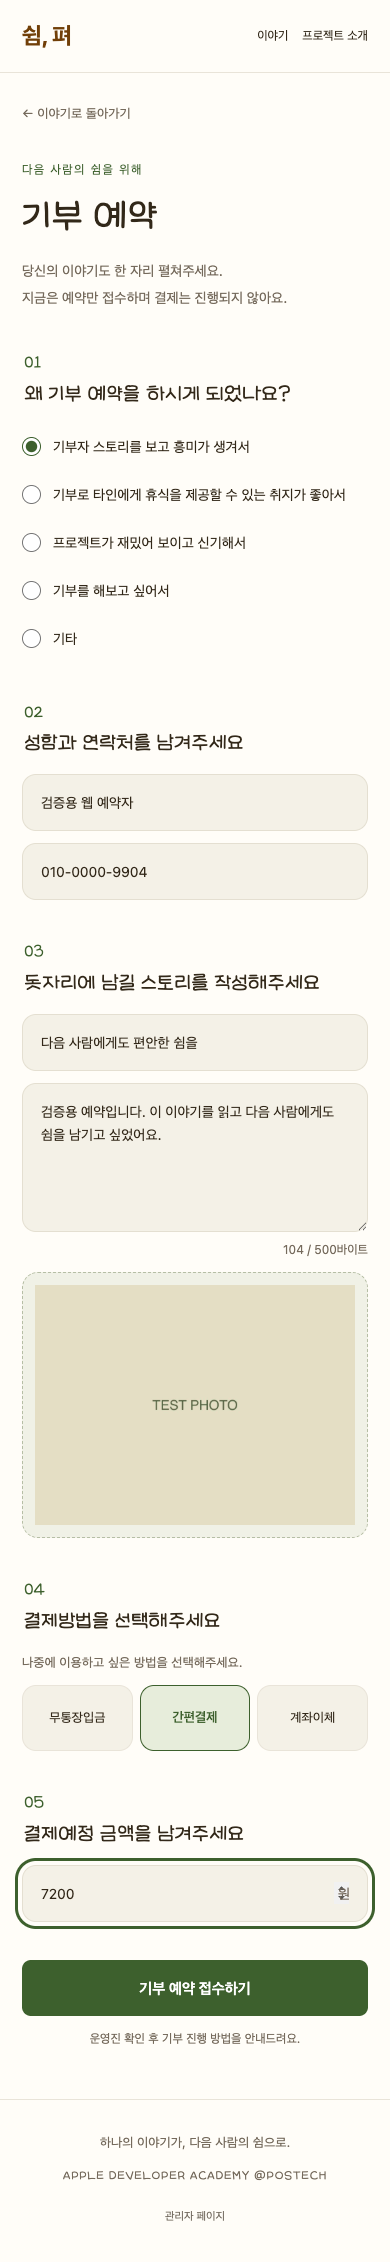
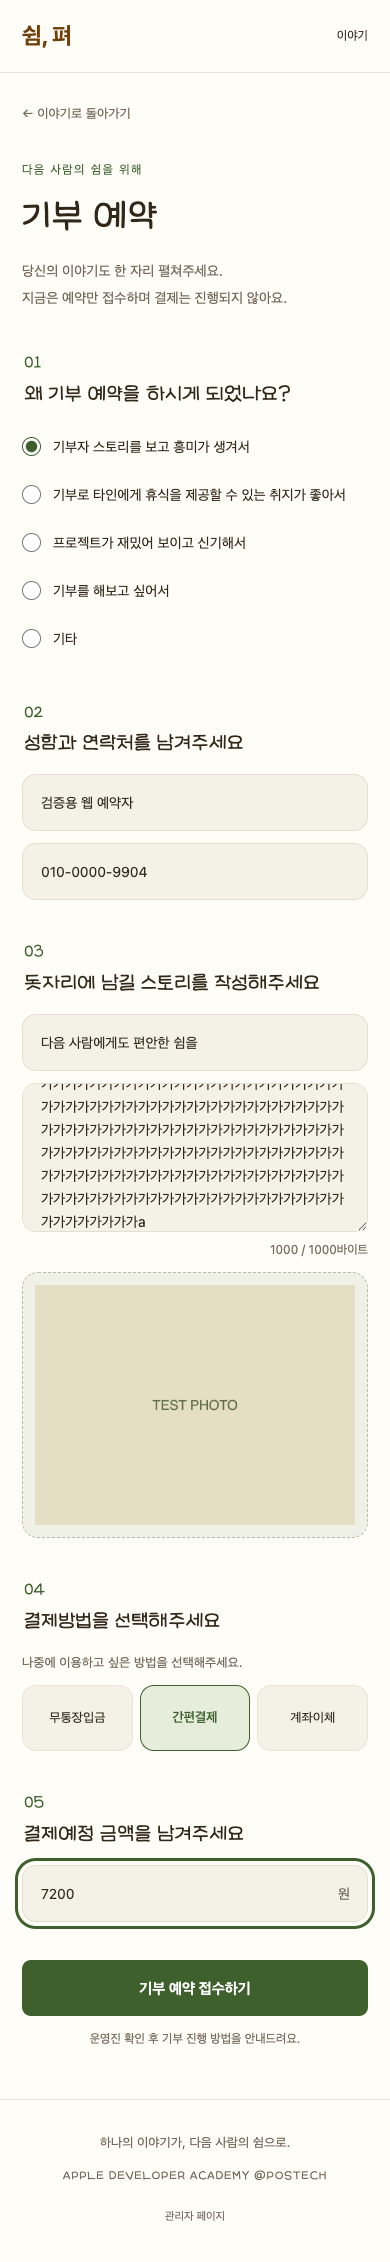
[feat] 기부자 스토리 상한을 1000바이트로 확대

Changed region(s): [[0.0923, 0.4642, 0.8923, 0.557]]

diff --git a/apps/web/src/components/reservation-form.tsx b/apps/web/src/components/reservation-form.tsx
@@ -2,7 +2,7 @@
 /* eslint-disable @next/next/no-img-element */
 import Link from "next/link";
 import { useEffect, useRef, useState } from "react";
-import { byteLength } from "@/lib/story";
+import { byteLength, STORY_MAX_BYTES } from "@/lib/story";
 import { reasons, paymentMethods, reservationInput } from "@/lib/reservation";
 
 export function ReservationForm({ sourceStoryId }: { sourceStoryId?: string }) {
@@ -39,10 +39,10 @@ export function ReservationForm({ sourceStoryId }: { sourceStoryId?: string }) {
     <form onSubmit={submit} onChange={() => { requestId.current = ""; }}><fieldset disabled={busy} className="reservation-fields">
       <fieldset className="reservation-question"><legend><span>01</span> 왜 기부 예약을 하시게 되었나요?</legend><div className="reason-options">{Object.entries(reasons).map(([value, label]) => <label key={value}><input type="radio" name="reason" value={value} checked={reason === value} onChange={() => setReason(value)} required />{label}</label>)}</div>{reason === "other" ? <label className="other-reason"><span className="sr-only">기타 이유</span><input name="reasonOther" maxLength={300} placeholder="예약하게 된 이유를 들려주세요" required /></label> : <input type="hidden" name="reasonOther" value="" />}</fieldset>
       <fieldset className="reservation-question"><legend><span>02</span> 성함과 연락처를 남겨주세요</legend><label><span className="sr-only">성함</span><input name="displayName" autoComplete="name" maxLength={40} placeholder="성함" required /></label><label><span className="sr-only">휴대폰번호</span><input name="phone" type="tel" autoComplete="tel" maxLength={20} placeholder="휴대폰번호" required /></label></fieldset>
-      <fieldset className="reservation-question"><legend><span>03</span> 돗자리에 남길 스토리를 작성해주세요</legend><label><span className="sr-only">제목</span><input name="title" maxLength={80} placeholder="제목" required /></label><label><span className="sr-only">스토리</span><textarea aria-label="스토리" name="story" value={text} onChange={(e) => setText(e.target.value)} placeholder="당신의 이야기를 들려주세요" rows={5} required aria-describedby="reservation-bytes" /><small id="reservation-bytes" className={`byte-counter ${byteLength(text) > 500 ? "error-message" : ""}`}>{byteLength(text)} / 500바이트</small></label><label className="photo-upload">{preview ? <img src={preview} alt="선택한 사진 미리보기" /> : <span className="photo-upload-copy"><strong>＋</strong>사진 추가<small>JPG, PNG, WebP · 한 장 · 최대 5MB</small></span>}<span className="sr-only">사진 추가</span><input aria-label="사진 추가" name="photo" type="file" accept="image/jpeg,image/png,image/webp" required onChange={(e) => { const file = e.target.files?.[0]; setPreview(file ? URL.createObjectURL(file) : ""); }} /></label></fieldset>
+      <fieldset className="reservation-question"><legend><span>03</span> 돗자리에 남길 스토리를 작성해주세요</legend><label><span className="sr-only">제목</span><input name="title" maxLength={80} placeholder="제목" required /></label><label><span className="sr-only">스토리</span><textarea aria-label="스토리" name="story" value={text} onChange={(e) => setText(e.target.value)} placeholder="당신의 이야기를 들려주세요" rows={5} required aria-describedby="reservation-bytes" /><small id="reservation-bytes" className={`byte-counter ${byteLength(text) > STORY_MAX_BYTES ? "error-message" : ""}`}>{byteLength(text)} / {STORY_MAX_BYTES}바이트</small></label><label className="photo-upload">{preview ? <img src={preview} alt="선택한 사진 미리보기" /> : <span className="photo-upload-copy"><strong>＋</strong>사진 추가<small>JPG, PNG, WebP · 한 장 · 최대 5MB</small></span>}<span className="sr-only">사진 추가</span><input aria-label="사진 추가" name="photo" type="file" accept="image/jpeg,image/png,image/webp" required onChange={(e) => { const file = e.target.files?.[0]; setPreview(file ? URL.createObjectURL(file) : ""); }} /></label></fieldset>
       <fieldset className="reservation-question"><legend><span>04</span> 결제방법을 선택해주세요</legend><p className="field-description">나중에 이용하고 싶은 방법을 선택해주세요.</p><div className="payment-options">{Object.entries(paymentMethods).map(([value, label]) => <label key={value}><input type="radio" name="paymentMethod" value={value} required /><span>{label}</span></label>)}</div></fieldset>
       <fieldset className="reservation-question"><legend><span>05</span> 결제예정 금액을 남겨주세요</legend><label className="amount-input"><span className="sr-only">결제예정 금액</span><input name="amount" type="number" inputMode="numeric" min="1" max="2147483647" step="1" placeholder="0" required /><span aria-hidden="true">원</span></label></fieldset>
-      {error && <p role="alert" className="error-message">{error}</p>}<button className="button primary reservation-submit" disabled={busy || byteLength(text) > 500}>{busy ? "예약을 접수하는 중…" : "기부 예약 접수하기"}</button><p className="reservation-footnote">운영진 확인 후 기부 진행 방법을 안내드려요.</p>
+      {error && <p role="alert" className="error-message">{error}</p>}<button className="button primary reservation-submit" disabled={busy || byteLength(text) > STORY_MAX_BYTES}>{busy ? "예약을 접수하는 중…" : "기부 예약 접수하기"}</button><p className="reservation-footnote">운영진 확인 후 기부 진행 방법을 안내드려요.</p>
     </fieldset></form>
   </section>;
 }

diff --git a/apps/web/src/components/admin-dashboard.tsx b/apps/web/src/components/admin-dashboard.tsx
@@ -3,7 +3,7 @@
 import Link from "next/link";
 import { useEffect, useState } from "react";
 import { useRouter } from "next/navigation";
-import { sizes, byteLength, type Story } from "@/lib/story";
+import { sizes, byteLength, STORY_MAX_BYTES, type Story } from "@/lib/story";
 import type { Reservation } from "@/lib/reservation";
 import { AdminReservations } from "./admin-reservations";
 
@@ -44,10 +44,10 @@ function StoryEditor({ story, reservation, onClose }: { story?: Story; reservati
     <label>공개 이름<input name="displayName" value={name} onChange={(e) => setName(e.target.value)} maxLength={40} required /></label>
     <label>제목<input name="title" defaultValue={story?.title || reservation?.title || ""} maxLength={80} /></label>
     <label>사진 한 장<input name="photo" type="file" accept="image/jpeg,image/png,image/webp" required={!story && !reservation} onChange={(e) => { const file = e.target.files?.[0]; setPreview(file ? URL.createObjectURL(file) : ""); }} /><small>JPG, PNG, WebP · 최대 5MB. {story && "새 사진을 선택하지 않으면 기존 사진을 유지합니다."}</small></label>
-    <label>이야기<textarea name="story" value={text} onChange={(e) => setText(e.target.value)} rows={4} required aria-describedby="story-length" /><small id="story-length" className={byteLength(text) > 500 ? "error-message" : ""}>{byteLength(text)} / 500바이트</small></label>
+    <label>이야기<textarea name="story" value={text} onChange={(e) => setText(e.target.value)} rows={4} required aria-describedby="story-length" /><small id="story-length" className={byteLength(text) > STORY_MAX_BYTES ? "error-message" : ""}>{byteLength(text)} / {STORY_MAX_BYTES}바이트</small></label>
     <div className="review-checks"><label><input type="checkbox" checked={verified} onChange={(e) => { setVerified(e.target.checked); if (!e.target.checked) setPublished(false); }} /> 입금 확인 완료</label><label><input type="checkbox" checked={published} disabled={!verified} onChange={(e) => setPublished(e.target.checked)} /> 내용 검토 완료 · 웹에 공개</label></div>
     <details className="preview-panel"><summary>공개 내용 미리보기</summary>{(preview || story || reservation) && <img src={preview || (reservation ? `/api/admin/reservations/${reservation.id}/photo` : `/api/stories/${story!.id}/photo?v=${story!.revision}`)} alt="공개할 사진 미리보기" />}<h3>{name || "공개 이름"}님의 이야기</h3><p>{text || "작성한 이야기가 여기에 표시됩니다."}</p></details>
-    {error && <p className="error-message" role="alert">{error}</p>}<button className="button primary" disabled={busy || byteLength(text) > 500}>{busy ? "처리 중…" : published ? "저장하고 공개" : "비공개로 저장"}</button>
+    {error && <p className="error-message" role="alert">{error}</p>}<button className="button primary" disabled={busy || byteLength(text) > STORY_MAX_BYTES}>{busy ? "처리 중…" : published ? "저장하고 공개" : "비공개로 저장"}</button>
     {story && <div className="delete-area">{confirmDelete ? <><p>사진과 공감을 포함해 영구 삭제합니다. 되돌릴 수 없습니다.</p><button type="button" className="danger-button" onClick={remove}>영구 삭제 확인</button><button type="button" className="text-button" onClick={() => setConfirmDelete(false)}>취소</button></> : <button type="button" className="danger-button" onClick={() => setConfirmDelete(true)}>이야기 삭제</button>}</div>}
   </fieldset></form></section>;
 }

diff --git a/apps/web/tests/reservation.integration.ts b/apps/web/tests/reservation.integration.ts
@@ -11,11 +11,13 @@ test("private reservations are idempotent, admin-reviewed and never expose conta
   const photo = await sharp({ create: { width: 400, height: 300, channels: 3, background: "#eee5cb" } }).jpeg().toBuffer();
   function form(amount = "7200") {
     const f = new FormData();
-    for (const [key,value] of Object.entries({ id, displayName: "검증용 예약자", phone: "010-0000-9923", reason: "other", reasonOther: "통합 검증", title: "검증용 예약 제목", story: "가".repeat(166) + "ab", paymentMethod: "easy", amount })) f.set(key,value);
+    for (const [key,value] of Object.entries({ id, displayName: "검증용 예약자", phone: "010-0000-9923", reason: "other", reasonOther: "통합 검증", title: "검증용 예약 제목", story: "가".repeat(333) + "a", paymentMethod: "easy", amount })) f.set(key,value);
     f.set("photo", new Blob([new Uint8Array(photo)], { type: "image/jpeg" }), "test.jpg"); return f;
   }
   const send = (path: string, method: string, body?: BodyInit, auth = false) => fetch(base+path, { method, headers: { origin: base, ...(auth ? { cookie } : {}) }, body });
   try {
+    const oversized = form(); oversized.set("story", "가".repeat(333) + "ab");
+    assert.equal((await send("/api/reservations", "POST", oversized)).status, 400);
     const requests = await Promise.all([send("/api/reservations", "POST", form()), send("/api/reservations", "POST", form())]);
     for (const r of requests) assert.equal(r.status,201);
     assert.equal((await pool.query("SELECT count(*)::int AS count FROM mat_reservations WHERE id=$1",[id])).rows[0].count,1);
@@ -28,7 +30,7 @@ test("private reservations are idempotent, admin-reviewed and never expose conta
     assert.equal(login.status,200);cookie=login.headers.get("set-cookie")!.split(";")[0];
     assert.equal((await send(`/api/admin/reservations/${id}/photo`,"GET",undefined,true)).status,200);
     const admin = await send("/admin","GET",undefined,true).then(r=>r.text());assert.ok(admin.includes("01000009923"));
-    const promote = () => {const f=new FormData();for(const[k,v]of Object.entries({reservationId:id,matNumber:"9903",matSize:"large",displayName:"검증용 예약자",title:"검증용 예약 제목",story:"가".repeat(166)+"ab",paymentVerified:"true",published:"true"}))f.set(k,v);return f;};
+    const promote = () => {const f=new FormData();for(const[k,v]of Object.entries({reservationId:id,matNumber:"9903",matSize:"large",displayName:"검증용 예약자",title:"검증용 예약 제목",story:"가".repeat(333)+"a",paymentVerified:"true",published:"true"}))f.set(k,v);return f;};
     const created = await send("/api/admin/stories","POST",promote(),true);assert.equal(created.status,201);storyId=(await created.json()).id;
     assert.equal((await send("/api/admin/stories","POST",promote(),true)).status,409);
     const publicPage = await fetch(base+`/stories/${storyId}`).then(r=>r.text());

diff --git a/apps/web/tests/browser/story.spec.ts b/apps/web/tests/browser/story.spec.ts
@@ -20,6 +20,11 @@ test("admin registration, publication, mobile reading and one-device reaction", 
     await page.getByLabel("제목", { exact: true }).fill("함께 쉬어 가는 자리에 남긴 마음");
     await page.getByLabel("사진 한 장").setInputFiles({ name: "test.jpg", mimeType: "image/jpeg", buffer: photo });
     await page.getByRole("textbox", { name: /^이야기/ }).fill("이 화면은 검증용 데이터입니다. 함께 쉬어 가는 자리에 작은 마음을 남깁니다.");
+    await page.getByRole("textbox", { name: /^이야기/ }).fill("🧺".repeat(250) + "a");
+    await expect(page.getByRole("button", { name: "비공개로 저장" })).toBeDisabled();
+    await page.getByRole("textbox", { name: /^이야기/ }).fill("🧺".repeat(250));
+    await expect(page.locator("#story-length")).toHaveText("1000 / 1000바이트");
+    await expect(page.getByRole("button", { name: "비공개로 저장" })).toBeEnabled();
     await expect(page.getByLabel("내용 검토 완료 · 웹에 공개")).toBeDisabled();
     await page.getByLabel("입금 확인 완료").check();
     await page.getByLabel("내용 검토 완료 · 웹에 공개").check();
@@ -71,9 +76,11 @@ test("admin registration, publication, mobile reading and one-device reaction", 
     await page.getByRole("textbox", { name: "성함", exact: true }).fill("검증용 웹 예약자");
     await page.getByRole("textbox", { name: "휴대폰번호", exact: true }).fill("010-0000-9904");
     await page.getByRole("textbox", { name: "제목", exact: true }).fill("다음 사람에게도 편안한 쉼을");
-    await page.getByRole("textbox", { name: "스토리", exact: true }).fill("가".repeat(167));
+    await page.getByRole("textbox", { name: "스토리", exact: true }).fill("가".repeat(333) + "ab");
     await expect(page.getByRole("button", { name: "기부 예약 접수하기" })).toBeDisabled();
-    await page.getByRole("textbox", { name: "스토리", exact: true }).fill("검증용 예약입니다. 이 이야기를 읽고 다음 사람에게도 쉼을 남기고 싶었어요.");
+    await page.getByRole("textbox", { name: "스토리", exact: true }).fill("가".repeat(333) + "a");
+    await expect(page.locator("#reservation-bytes")).toHaveText("1000 / 1000바이트");
+    await expect(page.getByRole("button", { name: "기부 예약 접수하기" })).toBeEnabled();
     await page.locator('input[name="photo"]').setInputFiles({ name: "test.jpg", mimeType: "image/jpeg", buffer: photo });
     await page.getByLabel("간편결제", { exact: true }).check();
     const amount = page.getByRole("spinbutton", { name: "결제예정 금액" });

diff --git a/apps/web/tests/api.integration.ts b/apps/web/tests/api.integration.ts
@@ -28,7 +28,7 @@ test("real API and PostgreSQL enforce publication, auth, image rules, uniqueness
     assert.ok(login.headers.get("set-cookie")?.includes("HttpOnly"));
     assert.equal((await send("/api/admin/stories", "POST", fields(), true, "https://evil.invalid")).status, 403);
     assert.equal((await send("/api/admin/stories", "POST", fields({ displayName: " " }))).status, 400);
-    assert.equal((await send("/api/admin/stories", "POST", fields({ story: "가".repeat(167) }))).status, 400);
+    assert.equal((await send("/api/admin/stories", "POST", fields({ story: "가".repeat(333) + "ab" }))).status, 400);
     assert.equal((await send("/api/admin/stories", "POST", fields({ published: "true" }))).status, 400);
     const badPhoto = fields(); badPhoto.set("photo", new Blob(["<svg onload='alert(1)'></svg>"], { type: "image/jpeg" }), "fake.jpg");
     assert.equal((await send("/api/admin/stories", "POST", badPhoto)).status, 400);
@@ -48,7 +48,7 @@ test("real API and PostgreSQL enforce publication, auth, image rules, uniqueness
     const nextDevice = await send(`/api/stories/${id}/reaction`, "POST", JSON.stringify({ deviceId: randomUUID(), action: "react" }), false);
     assert.equal((await nextDevice.json()).count, 2);
     assert.equal((await send(`/api/admin/stories/${id}`, "PUT", fields({ revision: "1" }, false))).status, 409);
-    assert.equal((await send(`/api/admin/stories/${id}`, "PUT", fields({ revision: "2", matSize: "large" }, false))).status, 200);
+    assert.equal((await send(`/api/admin/stories/${id}`, "PUT", fields({ revision: "2", matSize: "large", story: "🧺".repeat(250) }, false))).status, 200);
     assert.equal((await fetch(`${base}/api/stories/${id}/photo`)).status, 404);
     assert.equal((await send(`/api/admin/stories/${id}`, "DELETE", JSON.stringify({ revision: 2 }))).status, 409);
     assert.equal((await send(`/api/admin/stories/${id}`, "DELETE", JSON.stringify({ revision: 3 }))).status, 200);

diff --git a/apps/web/tests/story.test.ts b/apps/web/tests/story.test.ts
@@ -10,10 +10,13 @@ test("anonymous or whitespace names cannot be registered", () => {
 });
 test("story byte limit handles UTF-8 including emoji", () => {
   assert.equal(storyInput.safeParse({ ...input, story: "🧺".repeat(100) }).success, true);
-  assert.equal(storyText.safeParse("a".repeat(500)).success, true);
-  assert.equal(storyText.safeParse("a".repeat(501)).success, false);
-  assert.equal(storyText.safeParse("\uac00".repeat(166) + "ab").success, true);
-  assert.equal(storyText.safeParse("\uac00".repeat(167)).success, false);
+  assert.equal(storyText.safeParse("a".repeat(1000)).success, true);
+  assert.equal(storyText.safeParse("a".repeat(1001)).success, false);
+  assert.equal(storyText.safeParse("\uac00".repeat(333) + "a").success, true);
+  assert.equal(storyText.safeParse("\uac00".repeat(333) + "ab").success, false);
+  assert.equal(storyText.safeParse("🧺".repeat(250)).success, true);
+  assert.equal(storyText.safeParse("🧺".repeat(250) + "a").success, false);
+  assert.equal(storyText.safeParse("   ").success, false);
   assert.equal(byteLength("\ud83e\uddfa"), 4);
 });
 test("publication requires verified payment and valid mat type", () => {

diff --git a/apps/web/src/lib/story.ts b/apps/web/src/lib/story.ts
@@ -1,7 +1,8 @@
 import { z } from "zod";
 
+export const STORY_MAX_BYTES = 1000;
 export const byteLength = (value: string) => new TextEncoder().encode(value).length;
-export const storyText = z.string().trim().min(1, "이야기를 입력해주세요.").refine((s) => byteLength(s) <= 500, "이야기는 500바이트 이내로 입력해주세요.");
+export const storyText = z.string().trim().min(1, "이야기를 입력해주세요.").refine((s) => byteLength(s) <= STORY_MAX_BYTES, `이야기는 ${STORY_MAX_BYTES}바이트 이내로 입력해주세요.`);
 export const storyTitle = z.string().trim().max(80, "제목은 80자 이내로 입력해주세요.");
 export const reactionKinds = ["like", "empathy", "sad", "cheer"] as const;
 export type ReactionKind = typeof reactionKinds[number];

diff --git a/docs/MAT-WEB.md b/docs/MAT-WEB.md
@@ -13,7 +13,7 @@
 
 예약은 결제가 아니다. 결제방법은 무통장입금·간편결제·계좌이체 중 희망하는 방법을 기록하며 PG나 간편결제 API를 실행하지 않는다. 금액은 1원 이상 원 단위 정수로 자유 입력한다. 접수 후 운영진이 연락한다. 개인정보 수집 안내·동의 UI는 사용자 요청으로 생략했다.
 
-공개 이름은 필수다. 예약 제목은 1~80자이며 기존 제목 없는 이야기는 이름으로 대체 제목을 표시한다. 본문은 UTF-8 기준 500바이트 이내다. 한글은 보통 3바이트, 이모지는 4바이트다. 사진은 JPG/PNG/WebP 정지 이미지 한 장, 5MB 이하이며 실제 디코딩 후 긴 변 1600px 이하 JPEG로 저장한다. 방향을 보정하고 메타데이터를 제거한다.
+공개 이름은 필수다. 예약 제목은 1~80자이며 기존 제목 없는 이야기는 이름으로 대체 제목을 표시한다. 본문은 UTF-8 기준 1000바이트 이내다. 한글은 보통 3바이트, 이모지는 4바이트다. 사진은 JPG/PNG/WebP 정지 이미지 한 장, 5MB 이하이며 실제 디코딩 후 긴 변 1600px 이하 JPEG로 저장한다. 방향을 보정하고 메타데이터를 제거한다.
 
 ## 운영
 
@@ -78,6 +78,8 @@ node --env-file=../../.env.test ../../node_modules/@playwright/test/cli.js test
 웹 서비스와 PostgreSQL 서비스 두 개를 사용한다. 기존 Dockerfile과 `.railway/railway.ts`를 유지한다. 배포 전 `npm run db:migrate`와 `/api/health` 상태 검사를 수행한다.
 
 `002_reservations_and_reactions.sql`은 기존 이야기 ID와 사진을 유지하고 제목·새 본문 제약·반응 종류·예약 테이블을 추가한다. 기존 100자 본문은 최대 400바이트이므로 500바이트 제약 안에 들어간다. 기존 API의 종류 없는 반응 요청은 공감해요로 처리해 배포 전후 클라이언트와 호환한다. 마이그레이션은 트랜잭션과 이력 테이블로 한 번만 적용한다. 운영에서 신규 예약·반응이 생긴 뒤 옛 스키마로 되돌리는 파괴적 롤백은 제공하지 않는다.
+
+`003_story_byte_limit.sql`은 기존 이야기와 예약 본문을 보존하면서 두 테이블의 본문 제약을 1000바이트로 확대한다. 새 앱 배포 전에 적용한다. 500바이트를 초과하는 본문이 저장된 이후에는 데이터 확인 없이 이전 제약으로 되돌릴 수 없다.
 
 필수 환경변수는 DATABASE_URL, ADMIN_PASSWORD(9자 이상), SESSION_SECRET(무작위 32자 이상), APP_ORIGIN이다. 기존 DONATION_* 변수는 유지하지만 예약 전용 화면에서는 계좌를 표시하지 않는다. SESSION_SECRET을 변경하면 반응 식별자 연결이 끊기므로 비밀번호 변경과 별도로 관리한다. 도메인 변경 시 APP_ORIGIN도 변경한다.
 
